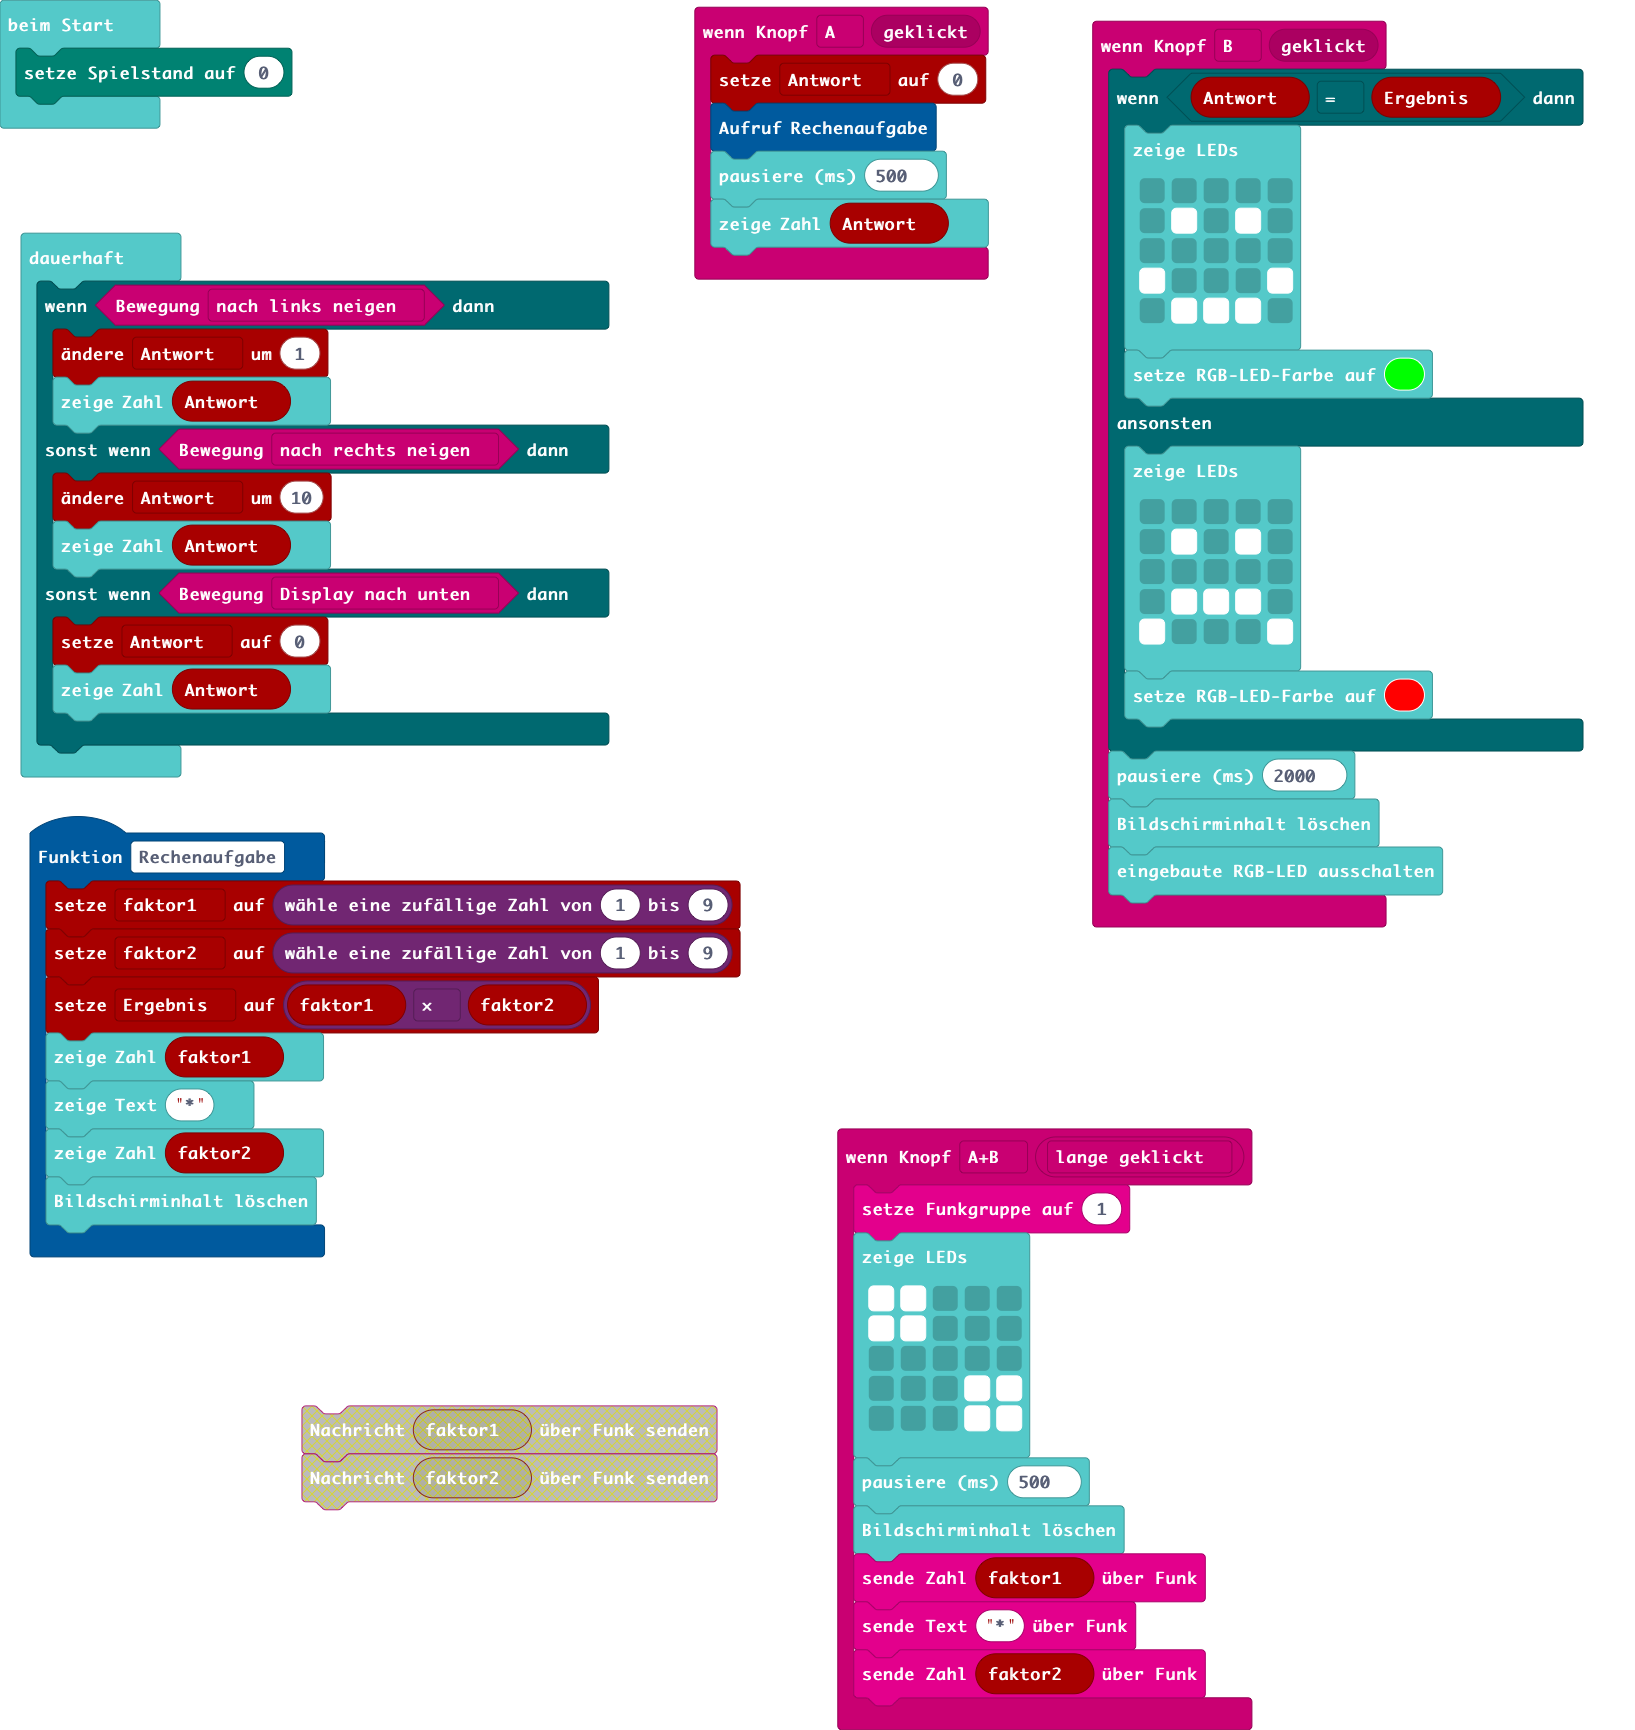
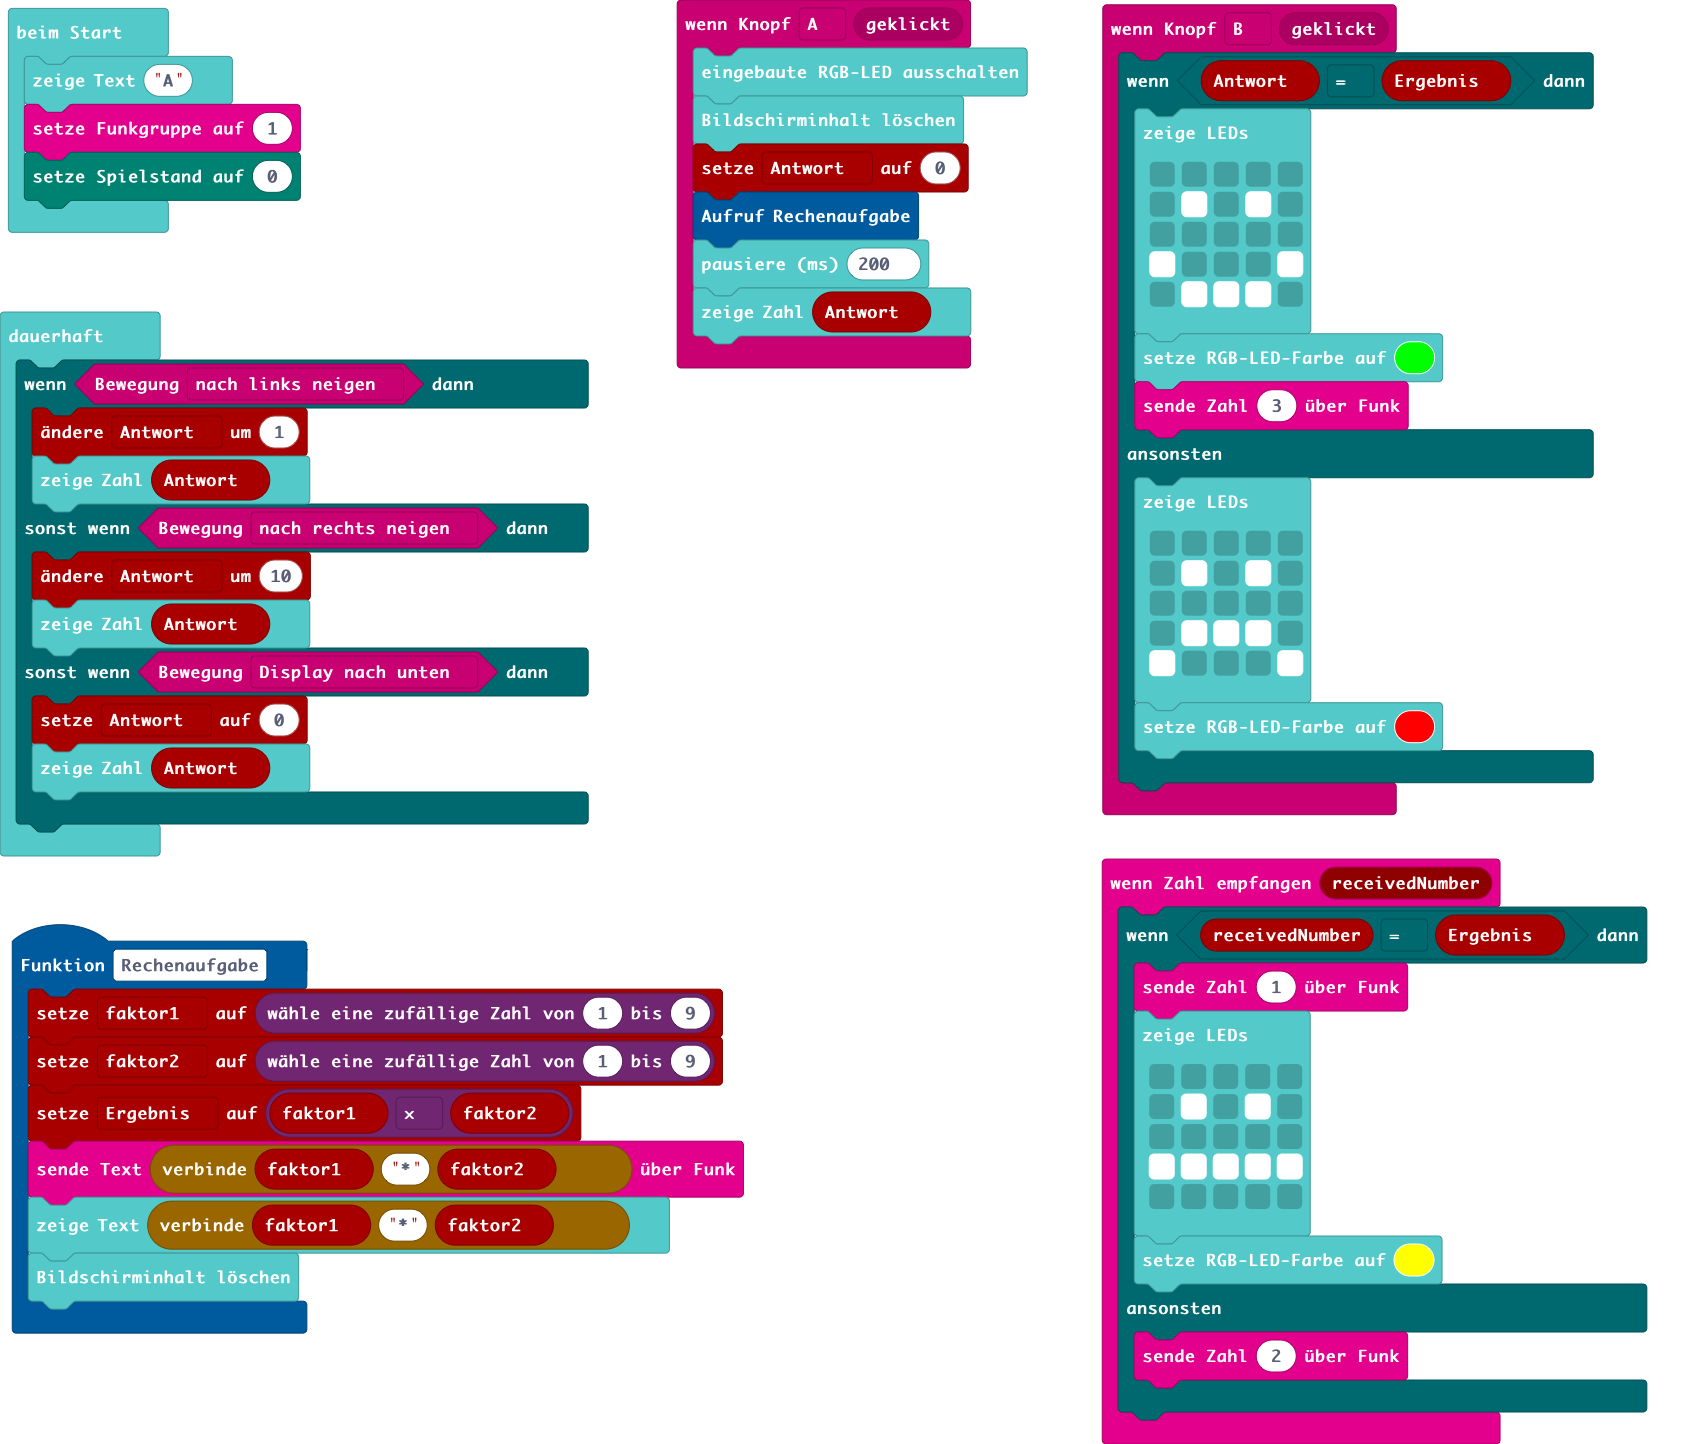
Aktualisiere main.blocks, main.ts

diff --git a/main.ts b/main.ts
@@ -1,25 +1,28 @@
 enum RadioMessage {
-    message1 = 49434
+    message1 = 49434,
+    Aufgabe = 15415
 }
-input.onButtonEvent(Button.AB, ButtonEvent.LongClick, function () {
-    radio.setGroup(1)
-    basic.showLeds(`
-        # # . . .
-        # # . . .
-        . . . . .
-        . . . # #
-        . . . # #
-        `)
-    basic.pause(500)
-    basic.clearScreen()
-    radio.sendNumber(faktor1)
-    radio.sendString("*")
-    radio.sendNumber(faktor2)
+radio.onReceivedNumber(function (receivedNumber) {
+    if (receivedNumber == Ergebnis) {
+        radio.sendNumber(1)
+        basic.showLeds(`
+            . . . . .
+            . # . # .
+            . . . . .
+            # # # # #
+            . . . . .
+            `)
+        basic.setLedColor(0xffff00)
+    } else {
+        radio.sendNumber(2)
+    }
 })
 input.onButtonEvent(Button.A, input.buttonEventClick(), function () {
+    basic.turnRgbLedOff()
+    basic.clearScreen()
     Antwort = 0
     Rechenaufgabe()
-    basic.pause(500)
+    basic.pause(200)
     basic.showNumber(Antwort)
 })
 input.onButtonEvent(Button.B, input.buttonEventClick(), function () {
@@ -32,6 +35,7 @@ input.onButtonEvent(Button.B, input.buttonEventClick(), function () {
             . # # # .
             `)
         basic.setLedColor(0x00ff00)
+        radio.sendNumber(3)
     } else {
         basic.showLeds(`
             . . . . .
@@ -42,23 +46,21 @@ input.onButtonEvent(Button.B, input.buttonEventClick(), function () {
             `)
         basic.setLedColor(0xff0000)
     }
-    basic.pause(2000)
-    basic.clearScreen()
-    basic.turnRgbLedOff()
 })
 function Rechenaufgabe () {
     faktor1 = randint(1, 9)
     faktor2 = randint(1, 9)
     Ergebnis = faktor1 * faktor2
-    basic.showNumber(faktor1)
-    basic.showString("*")
-    basic.showNumber(faktor2)
+    radio.sendString("" + faktor1 + "*" + faktor2)
+    basic.showString("" + faktor1 + "*" + faktor2)
     basic.clearScreen()
 }
-let Ergebnis = 0
-let Antwort = 0
 let faktor2 = 0
 let faktor1 = 0
+let Antwort = 0
+let Ergebnis = 0
+basic.showString("A")
+radio.setGroup(1)
 game.setScore(0)
 basic.forever(function () {
     if (input.isGesture(Gesture.TiltLeft)) {
